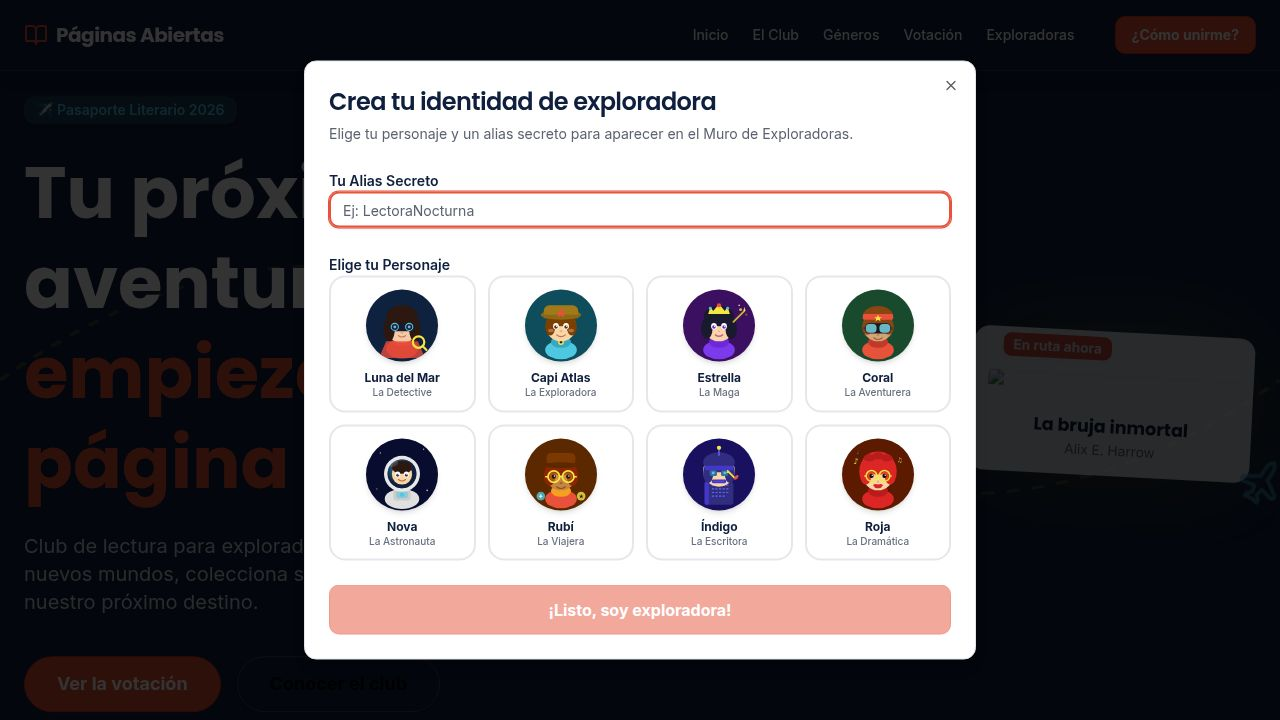
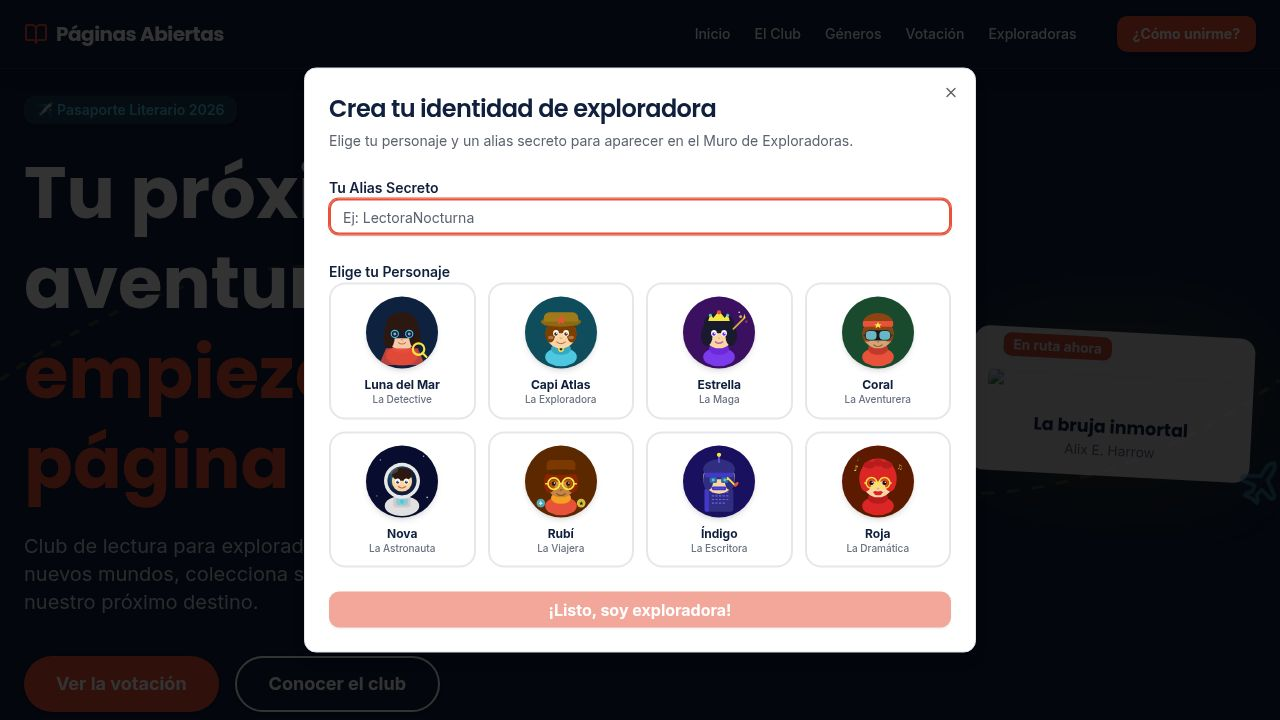
Add coral background color to the main call to action button
Fix the Button component to correctly apply background colors and other styles passed via className.

Replit-Commit-Author: Agent
Replit-Commit-Session-Id: ccac6397-ae24-4a78-be4b-898f753abec6
Replit-Commit-Checkpoint-Type: full_checkpoint
Replit-Commit-Event-Id: df5bc415-5eda-4f4b-8446-98de676645a3
Replit-Commit-Screenshot-Url: https://storage.googleapis.com/screenshot-production-us-central1/0ae857d7-c6ac-4dba-93c4-285cffe31b8c/ccac6397-ae24-4a78-be4b-898f753abec6/gOuBvgt
Replit-Helium-Checkpoint-Created: true

diff --git a/artifacts/paginas-abiertas/src/components/ui/button.tsx b/artifacts/paginas-abiertas/src/components/ui/button.tsx
@@ -5,33 +5,25 @@ import { cva, type VariantProps } from "class-variance-authority"
 import { cn } from "@/lib/utils"
 
 const buttonVariants = cva(
-  "inline-flex items-center justify-center gap-2 whitespace-nowrap rounded-md text-sm font-medium transition-colors focus-visible:outline-none focus-visible:ring-1 focus-visible:ring-ring disabled:pointer-events-none disabled:opacity-50 [&_svg]:pointer-events-none [&_svg]:size-4 [&_svg]:shrink-0" +
-" hover-elevate active-elevate-2",
+  "inline-flex items-center justify-center gap-2 whitespace-nowrap rounded-md text-sm font-medium transition-colors focus-visible:outline-none focus-visible:ring-1 focus-visible:ring-ring disabled:pointer-events-none disabled:opacity-50 [&_svg]:pointer-events-none [&_svg]:size-4 [&_svg]:shrink-0",
   {
     variants: {
       variant: {
         default:
-           // @replit: no hover, and add primary border
-           "bg-primary text-primary-foreground border border-primary-border",
+          "bg-primary text-primary-foreground shadow hover:bg-primary/90",
         destructive:
-          "bg-destructive text-destructive-foreground shadow-sm border-destructive-border",
+          "bg-destructive text-destructive-foreground shadow-sm hover:bg-destructive/90",
         outline:
-          // @replit Shows the background color of whatever card / sidebar / accent background it is inside of.
-          // Inherits the current text color. Uses shadow-xs. no shadow on active
-          // No hover state
-          " border [border-color:var(--button-outline)] shadow-xs active:shadow-none ",
+          "border border-input bg-background shadow-sm hover:bg-accent hover:text-accent-foreground",
         secondary:
-          // @replit border, no hover, no shadow, secondary border.
-          "border bg-secondary text-secondary-foreground border border-secondary-border ",
-        // @replit no hover, transparent border
-        ghost: "border border-transparent",
+          "bg-secondary text-secondary-foreground shadow-sm hover:bg-secondary/80",
+        ghost: "hover:bg-accent hover:text-accent-foreground",
         link: "text-primary underline-offset-4 hover:underline",
       },
       size: {
-        // @replit changed sizes
-        default: "min-h-9 px-4 py-2",
-        sm: "min-h-8 rounded-md px-3 text-xs",
-        lg: "min-h-10 rounded-md px-8",
+        default: "h-9 px-4 py-2",
+        sm: "h-8 rounded-md px-3 text-xs",
+        lg: "h-10 rounded-md px-8",
         icon: "h-9 w-9",
       },
     },
@@ -53,11 +45,11 @@ const Button = React.forwardRef<HTMLButtonElement, ButtonProps>(
     const Comp = asChild ? Slot : "button"
     return (
       <Comp
-        className="inline-flex items-center justify-center gap-2 whitespace-nowrap transition-colors focus-visible:outline-none focus-visible:ring-1 focus-visible:ring-ring disabled:pointer-events-none disabled:opacity-50 [&_svg]:pointer-events-none [&_svg]:size-4 [&_svg]:shrink-0 hover-elevate active-elevate-2 border [border-color:var(--button-outline)] shadow-xs active:shadow-none min-h-10 border-white/20 hover:bg-white/10 font-bold text-lg h-14 px-8 rounded-full text-[#ffffff]"
+        className={cn(buttonVariants({ variant, size, className }))}
         ref={ref}
         {...props}
       />
-    );
+    )
   }
 )
 Button.displayName = "Button"